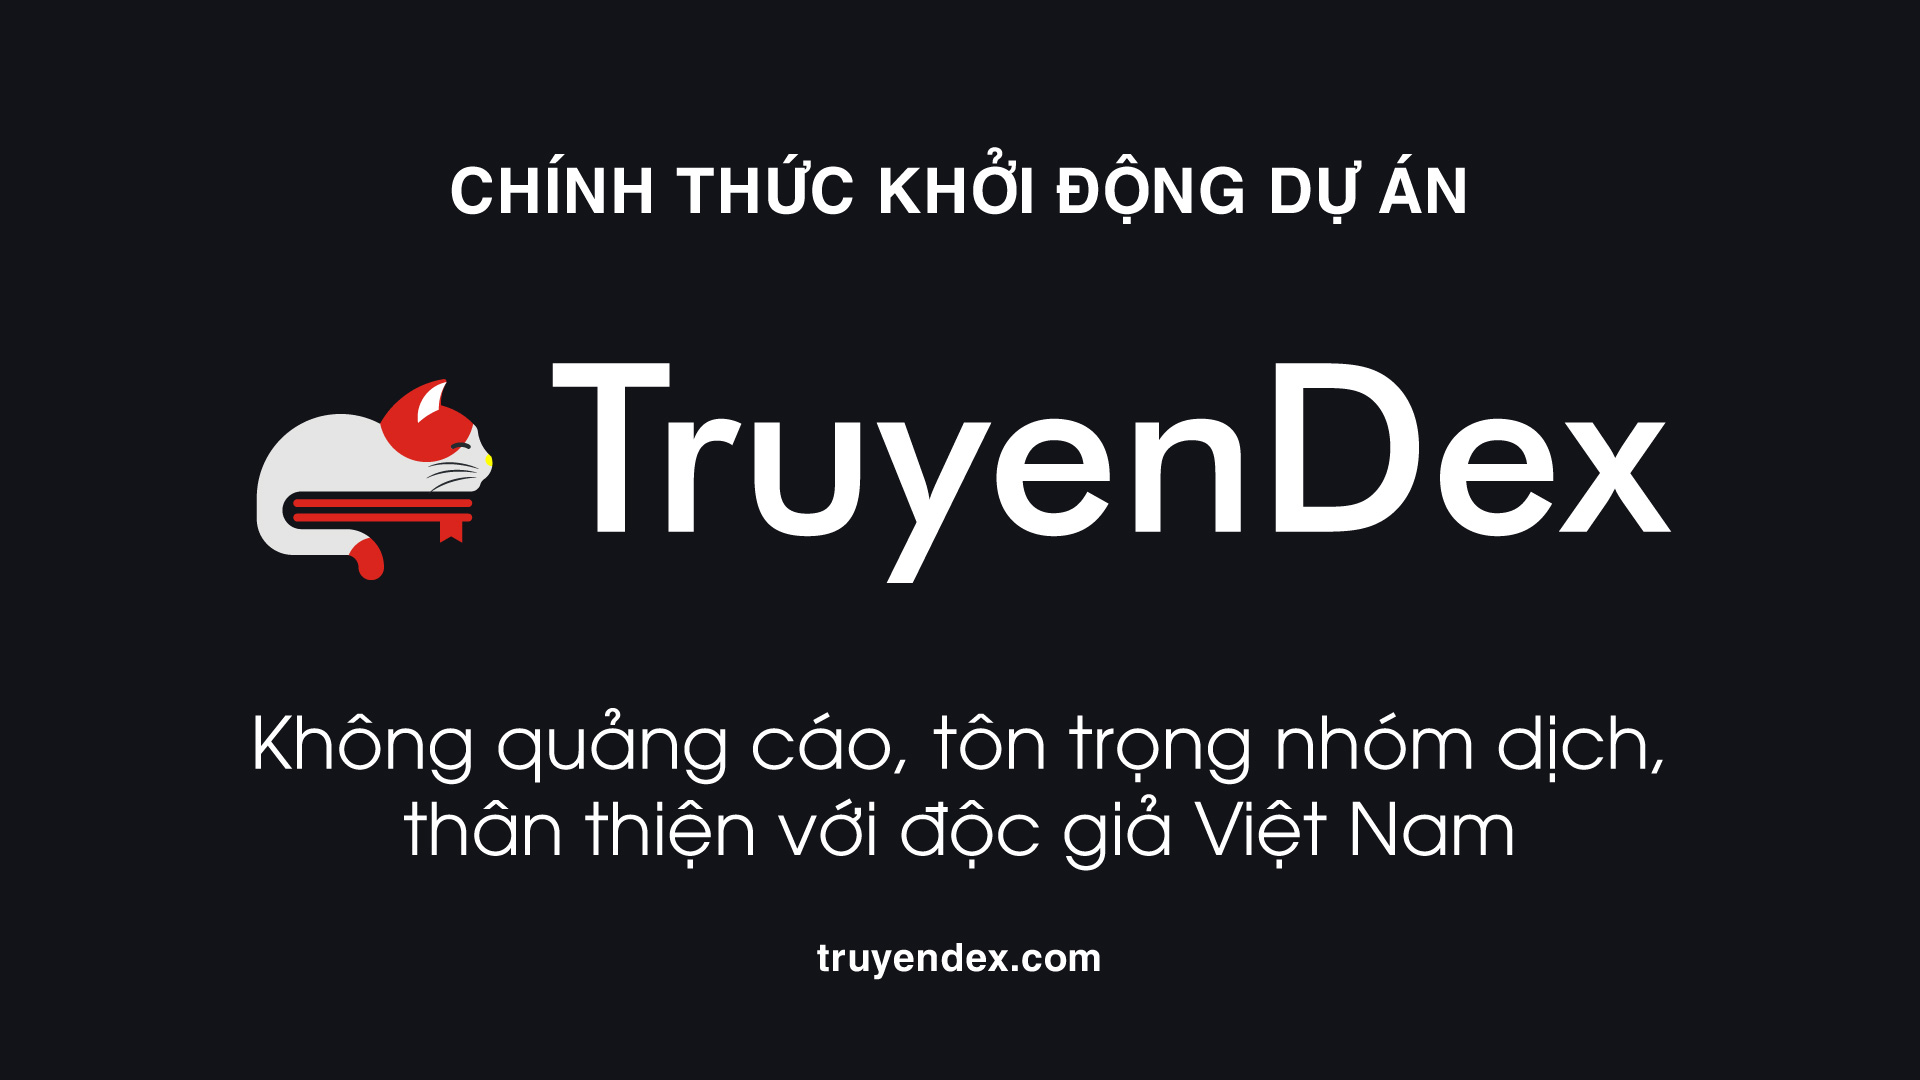
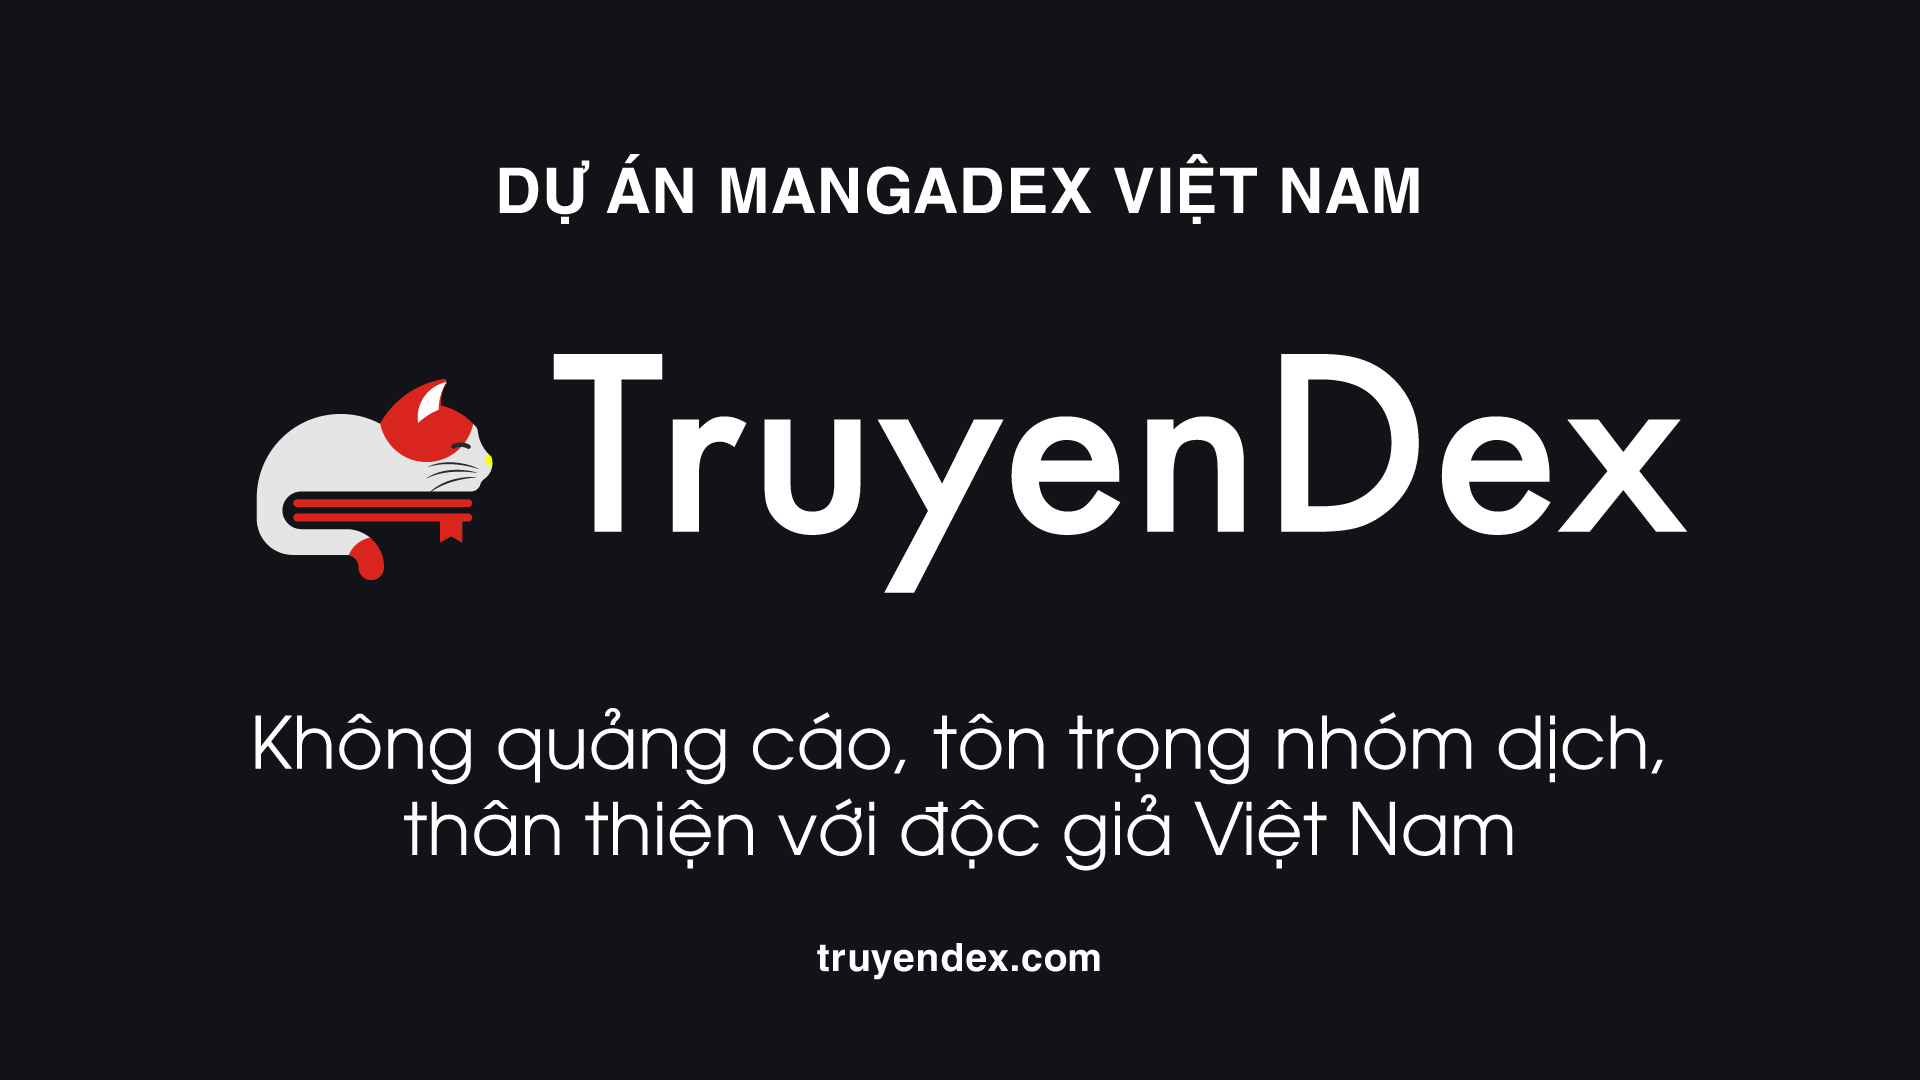
update: revise README to reflect the cessation of TruyenDex development and clarify ongoing support for the website

Changed region(s): [[0.2812, 0.3056, 0.7188, 0.55], [0.2188, 0.1528, 0.7812, 0.2139], [0.75, 0.3667, 0.875, 0.4889]]

diff --git a/README.md b/README.md
@@ -4,7 +4,9 @@
   <img src="./src/app/opengraph-image.jpg" />
 </p>
 
-> TruyenDex đang trong giai đoạn phát triển, website [TruyenDex.com](https://truyendex.com/) chỉ là phiên bản thử nghiệm.
+> TruyenDex đã dừng phát triển bởi đội ngũ chính thức, tuy nhiên website [TruyenDex.com](https://truyendex.com/) vẫn sẽ được duy trì và hỗ trợ merge PR từ các bạn. [Chi tiết][mangadex-dmca].
+
+[mangadex-dmca]: #mangadex-dmca
 
 TruyenDex - Từ một dự án troll NetTruyen đến trở thành một dự án nghiêm túc, TruyenDex sẽ trở thành website đọc truyện đầy đủ chức năng phù hợp với độc giả Việt Nam.
 
@@ -16,14 +18,14 @@ Lời đầu tiên, TruyenDex xin gửi lời cảm ơn sâu sắc đến đội
 - Ghi nguồn nhóm dịch đầy đủ
 - Tôn trọng quyền tự quyết sản phẩm của nhóm dịch
 
-## Chức năng dự kiến
+## Chức năng
+
+> Những chức năng này độc lập với data của MangaDex.
 
 - Theo dõi truyện
 - Bình luận: Theo truyện, theo chương (trang)
-- Diễn đàn thảo luận
 - Lượt đọc (toàn thời gian, tháng, tuần,...)
-- Xếp hạng người dùng (Tu tiên phi thăng...)
-- Liên kết truyện bản quyền
+- Ủng hộ truyện bản quyền
 
 ## FAQs
 
@@ -42,6 +44,14 @@ Lời đầu tiên, TruyenDex xin gửi lời cảm ơn sâu sắc đến đội
 - Sao không dùng thẳng MangaDex?
 
   MangaDex rất tuyệt vời, nguồn lực rất mạnh, được phát triển bởi đội ngũ bài bản và chuyên nghiệp. Tuy nhiên giao diện và trải nghiệm người dùng của MangaDex không phù hợp với thị hiếu người VN, như lúc đọc truyện, bình luận, chương mới,... TruyenDex sẽ tạo ra giao diện thân thiện với độc giả VN, và là sân chơi dành riêng cho độc giả VN.
+
+## MangaDex DMCA
+
+- Lần đầu tiên MangaDex nhận được một lượng lớn yêu cầu DMCA gỡ manga trên nền tảng của mình từ các đơn vị bản quyền, con số đã lên tới hàng nghìn bộ manga và đang tăng dần, bao gồm bản dịch của nhiều ngôn ngữ chứ không chỉ tiếng Anh. [Chi tiết](https://www.facebook.com/share/p/1Z185AMbTq/).
+
+- Điều này chứng tỏ không một website nào tránh khỏi DMCA và sự chú ý từ các đơn vị bản quyền, kể cả MangaDex, một website đã tôn trọng bản quyền hết mức của thể của một web truyện fantrans.
+
+- Vậy nên MangaDex cũng không thể là ngôi nhà an toàn cho các nhóm dịch Việt Nam, nên chúng mình sẽ **dừng phát triển TruyenDex**. Tuy nhiên, chúng mình vẫn sẽ duy trì website TruyenDex.com để các bạn sử dụng, và sẵn sàng hỗ trợ các bạn trong việc đóng góp vào repo này.
 
 ## Development (English)
 
@@ -86,3 +96,4 @@ Check out our [Next.js deployment documentation](https://nextjs.org/docs/deploym
 
 - Anh Gián admin Hako
 - Zennomi
+- Và cảm ơn tất cả các anh em đã mở PR
